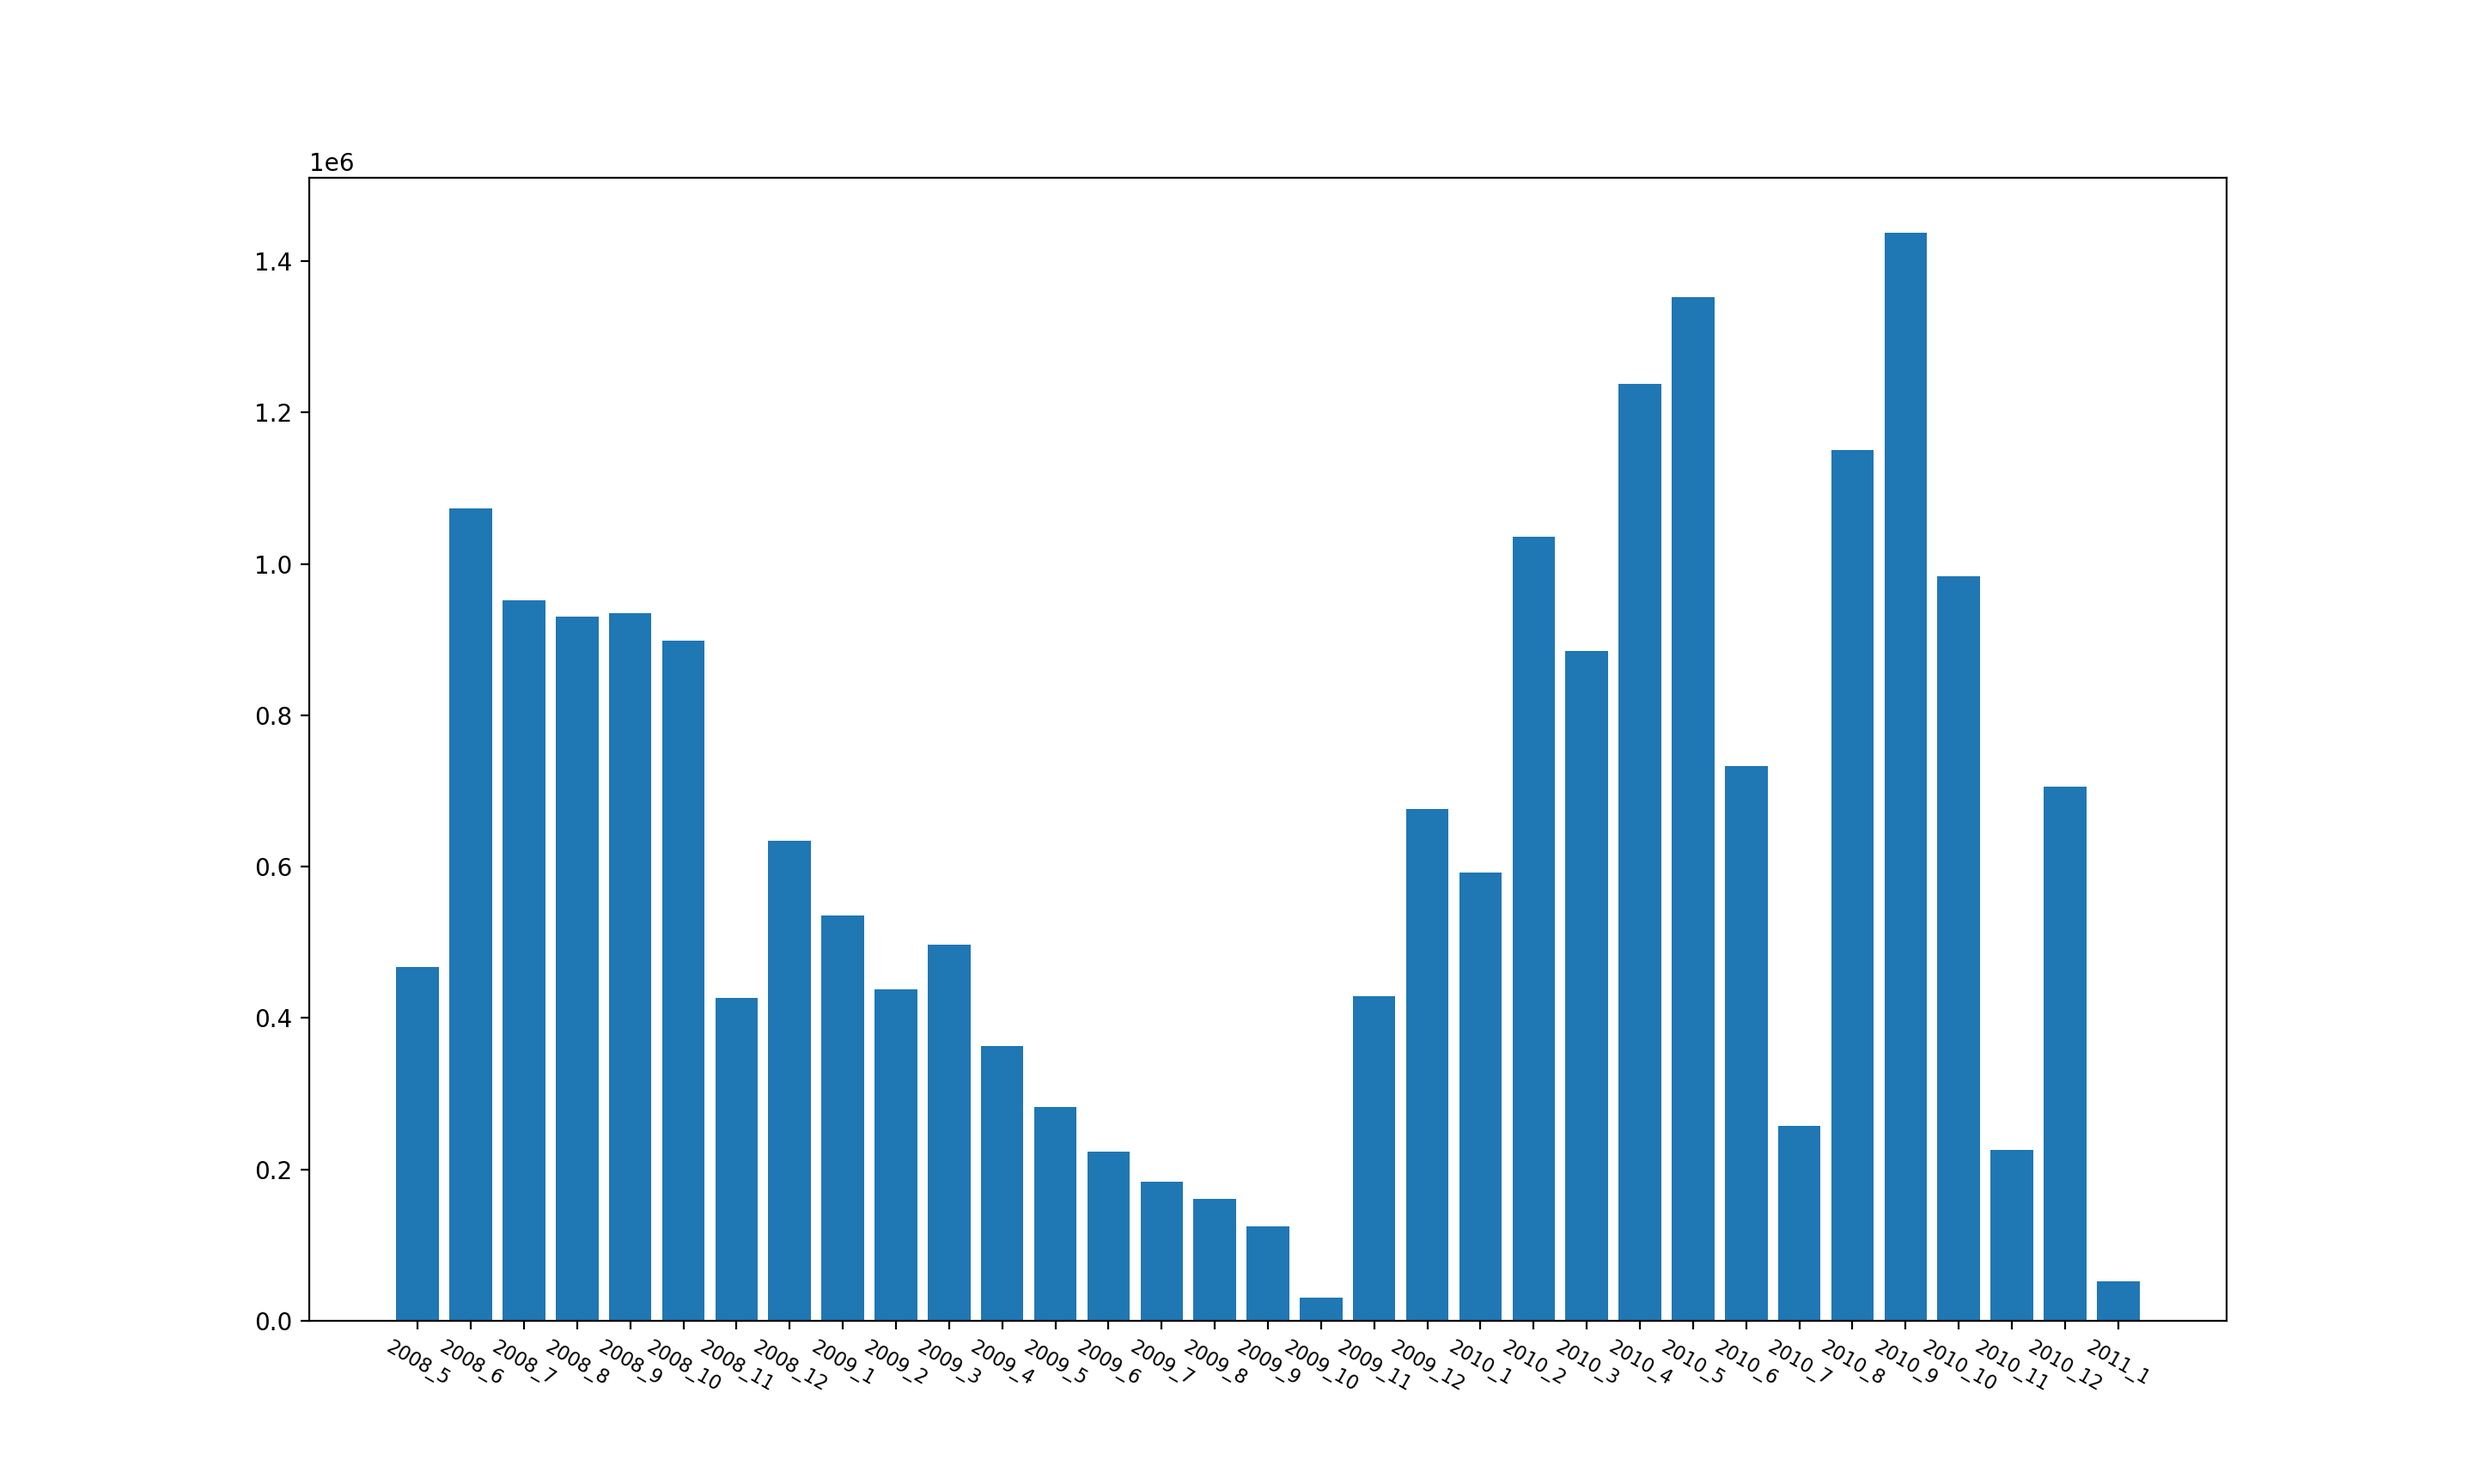
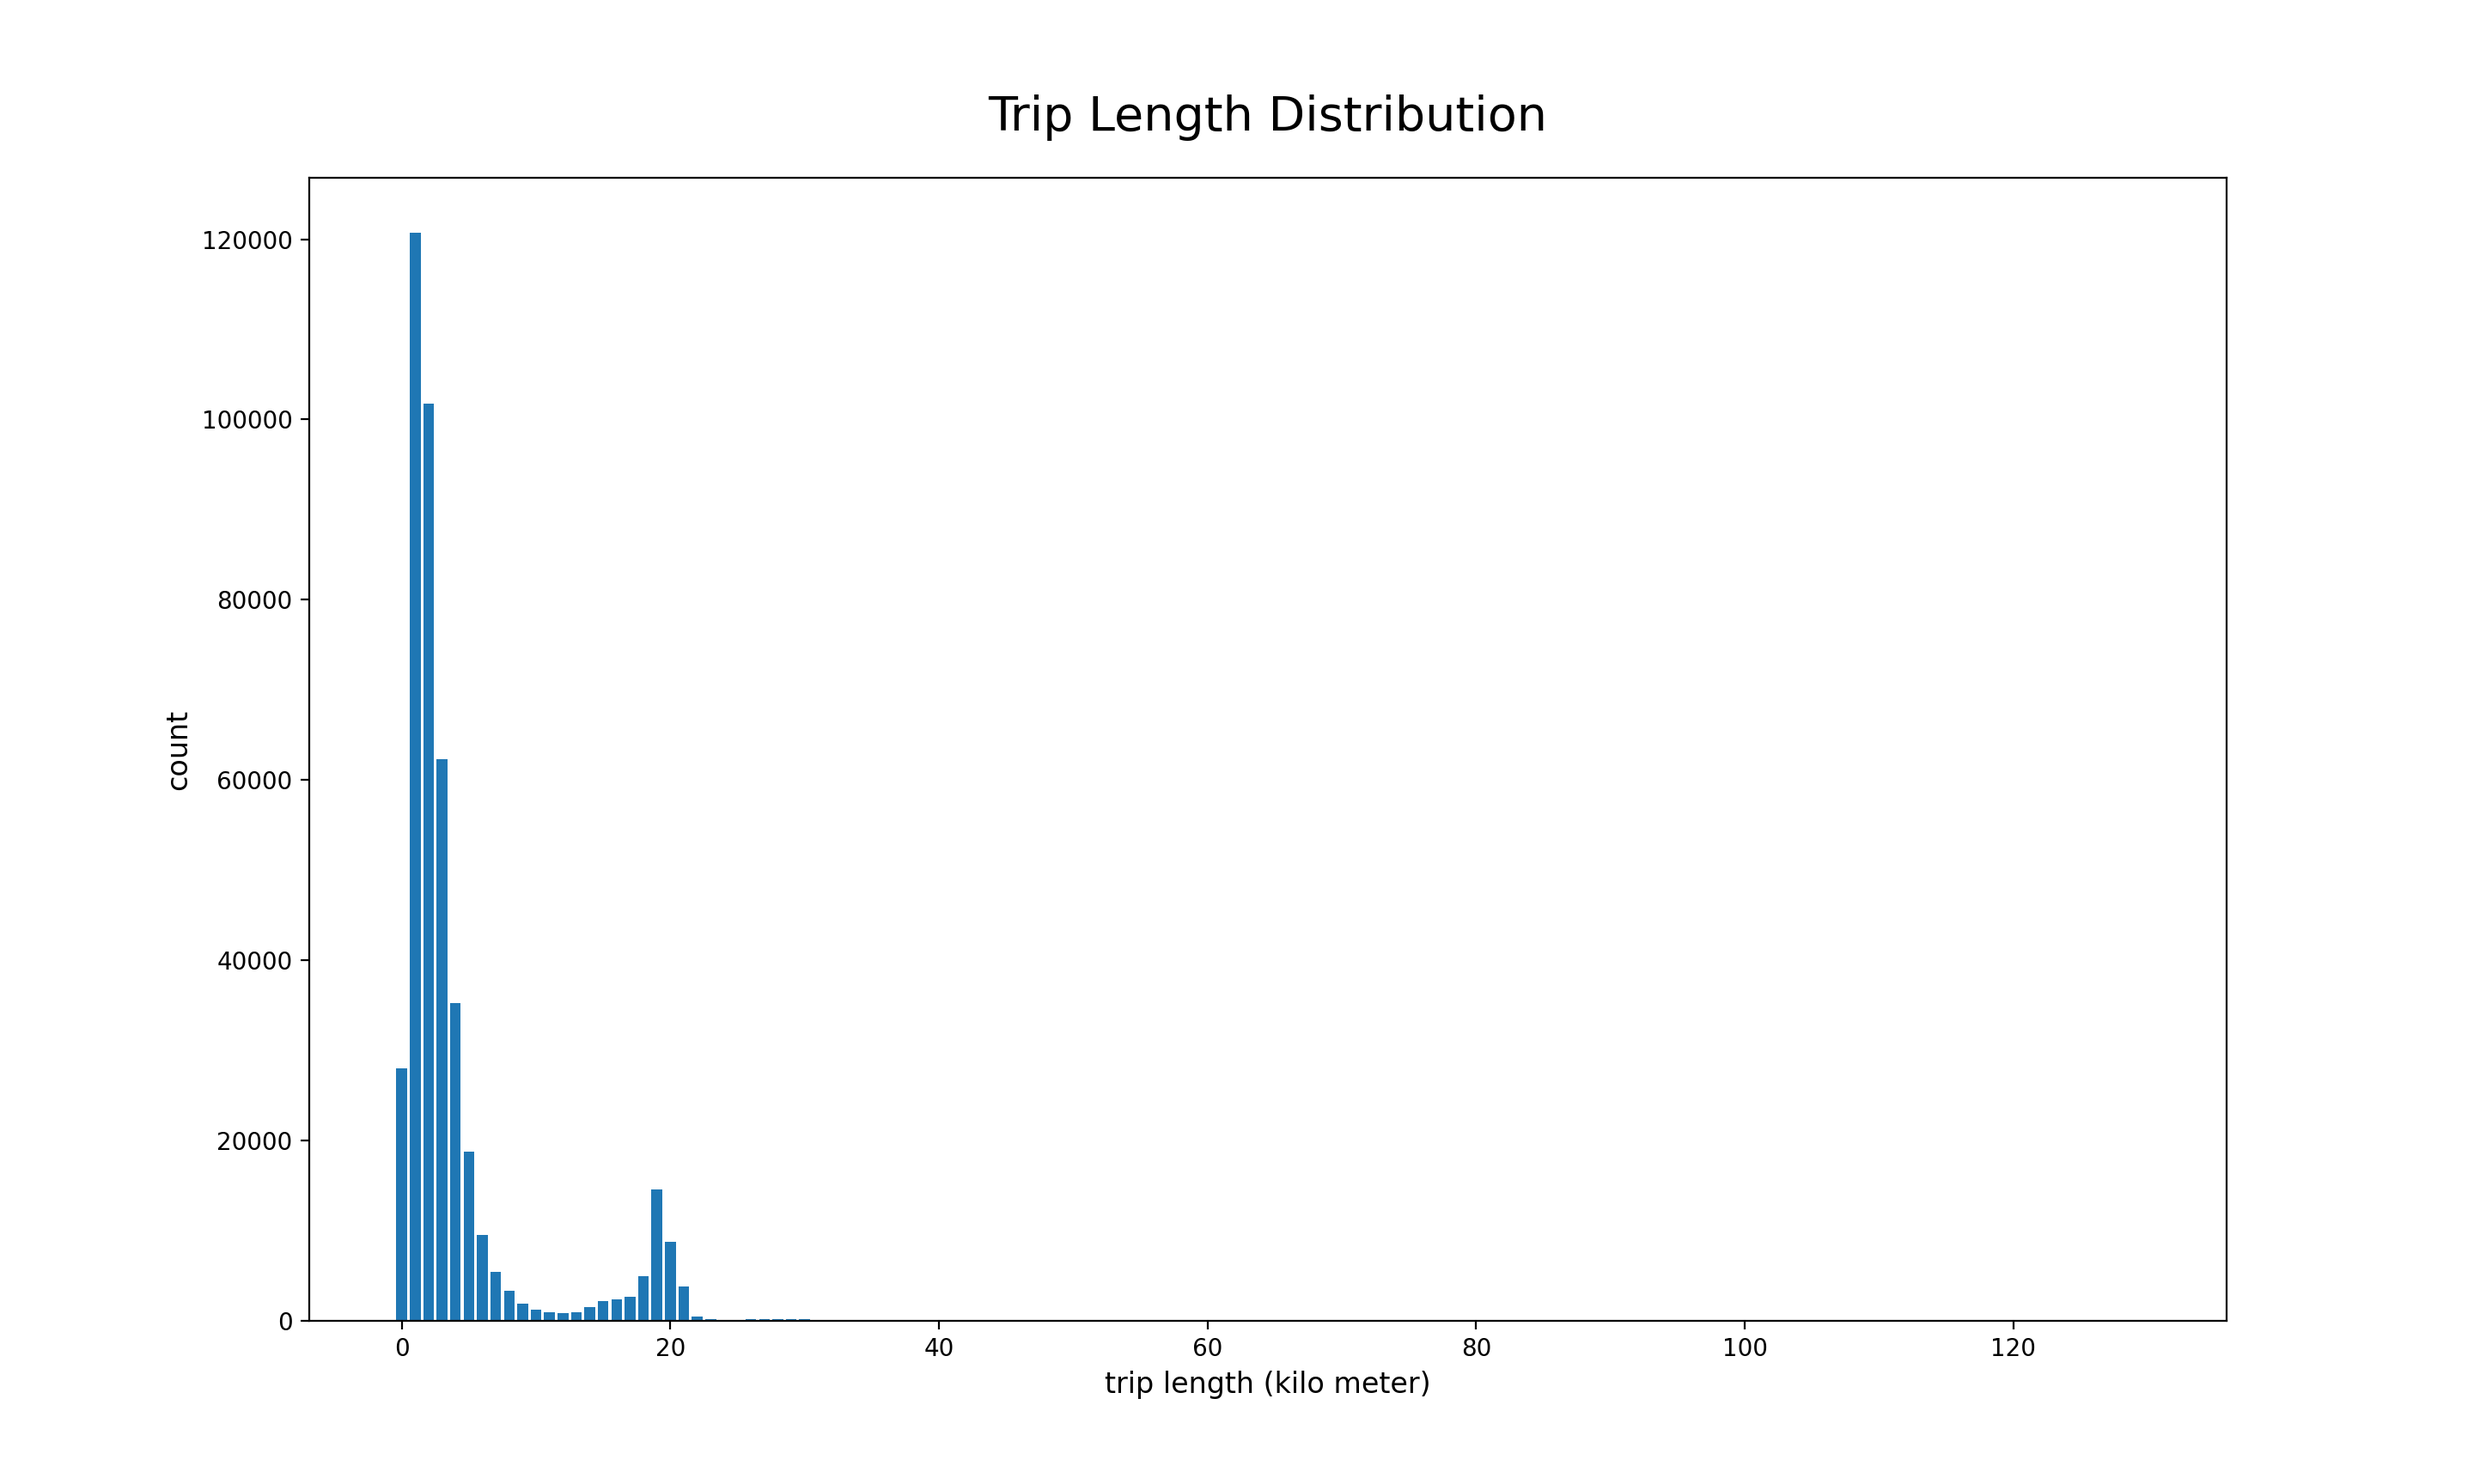
[add] add labels and titles

diff --git a/plotDistribution.py b/plotDistribution.py
@@ -1,7 +1,7 @@
 import matplotlib.pyplot as plt
 import sys as sys
 
-#plot distribution of trip length
+#plot distribution of trip length in unit m
 def plotTripLengthDistribution(trip_distribution_file):
     trip_length = []
     count_of_length = []
@@ -12,12 +12,43 @@ def plotTripLengthDistribution(trip_distribution_file):
             count_of_length.append(int(length_and_count.split(",")[1]))
     file.close()
     plt.bar(trip_length, count_of_length)
+    plt.xlabel('trip length (meter)', fontsize=12)
+    plt.ylabel('count', fontsize=12)
+    plt.title('Trip Length Distribution', fontsize=20, pad=20)
     plt.show()
+
+#plot distribution of trip length in unit km
+def plotTripLengthDistributionInUnitKM(trip_distribution_file):
+    trip_distribution_dist = {}
+    with open(trip_distribution_file) as file:
+        for line in file:
+            length_and_count = line.rstrip("\n")
+            current_trip_lenght = int(length_and_count.split(",")[0])
+            current_count_of_length = int(length_and_count.split(",")[1])
+            trip_length_in_km = round(current_trip_lenght / 1000)
+            if trip_length_in_km in trip_distribution_dist:
+                trip_distribution_dist[trip_length_in_km] +=  current_count_of_length
+            else:
+                trip_distribution_dist[trip_length_in_km] = current_count_of_length
+    file.close()
+
+    x = []
+    y = []
+    for trip_length_in_km in trip_distribution_dist:
+        x.append(trip_length_in_km)
+        y.append(trip_distribution_dist[trip_length_in_km])
+    plt.bar(x, y)
+    plt.xlabel('trip length (kilo meter)', fontsize=12)
+    plt.ylabel('count', fontsize=12)
+    plt.title('Trip Length Distribution',fontsize=20, pad=20)
+    plt.show()
+
 
 #plot distribution of airport revenue
 def plotAirportTripRevenueDistribution(airport_trip_revenue_file):
     times = []
     revenues = []
+    total_revenue = 0
     with open(airport_trip_revenue_file) as file:
         for line in file:
             time_and_revenue = line.rstrip("\n")
@@ -25,9 +56,14 @@ def plotAirportTripRevenueDistribution(airport_trip_revenue_file):
             revenue = float(time_and_revenue.split()[1])
             times.append(time)
             revenues.append(revenue)
+            total_revenue += revenue
 
     plt.bar(times, revenues)
     plt.xticks(rotation=-30, size=8)  # 设置x轴标签旋转角度
+    plt.xlabel('time (year_and_month)', fontsize=12)
+    plt.ylabel('revenue (dollar)', fontsize=12)
+    plt.title('Airport Ride Revenue',fontsize=20, pad=20)
+    print("total revenue " + str(total_revenue))
     file.close()
     plt.show()
 
@@ -35,8 +71,10 @@ def plotAirportTripRevenueDistribution(airport_trip_revenue_file):
 type = sys.argv[1]
 if (type == 'trip_length'):
     plotTripLengthDistribution(sys.argv[2])
+elif (type == 'trip_length_in_km'):
+    plotTripLengthDistributionInUnitKM(sys.argv[2])
 elif (type == 'trip_revenue'):
     plotAirportTripRevenueDistribution(sys.argv[2])
 else:
-    print("the plotting type should be [trip_length]  or [trip_revenue]")
+    print("the plotting type should be [trip_length] or [trip_length_in_km] or [trip_revenue]")
 
